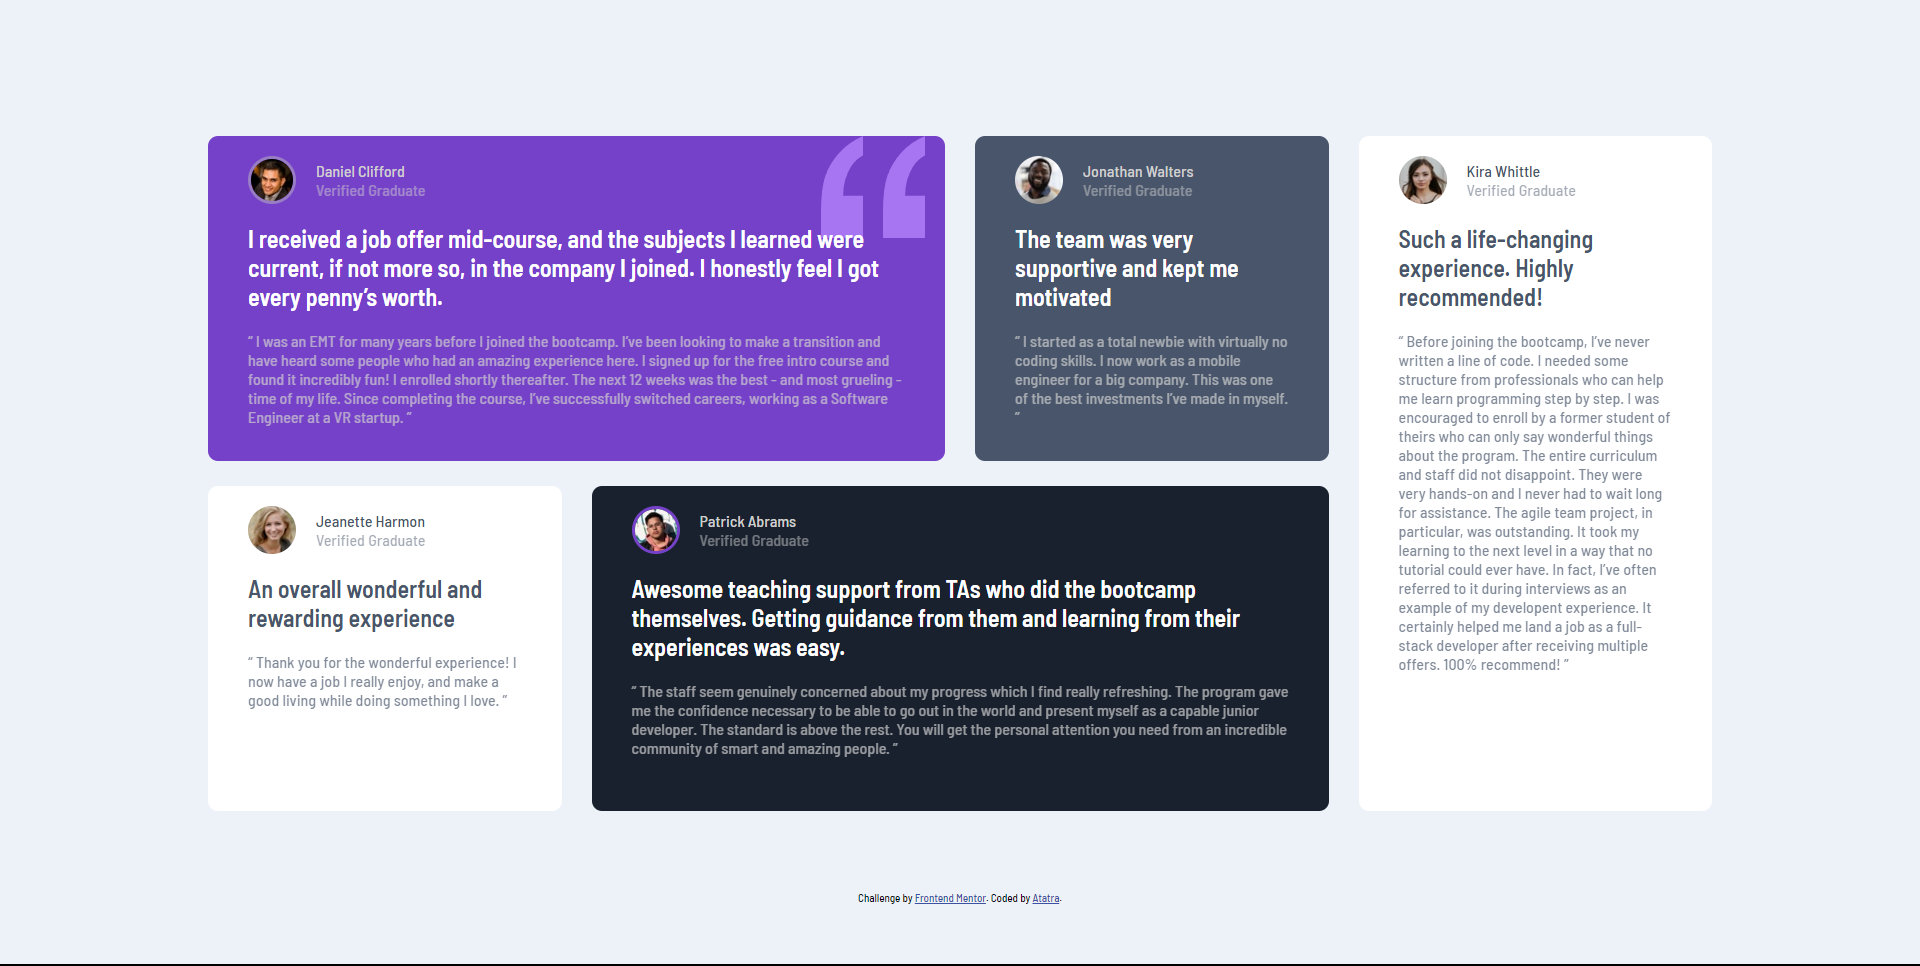
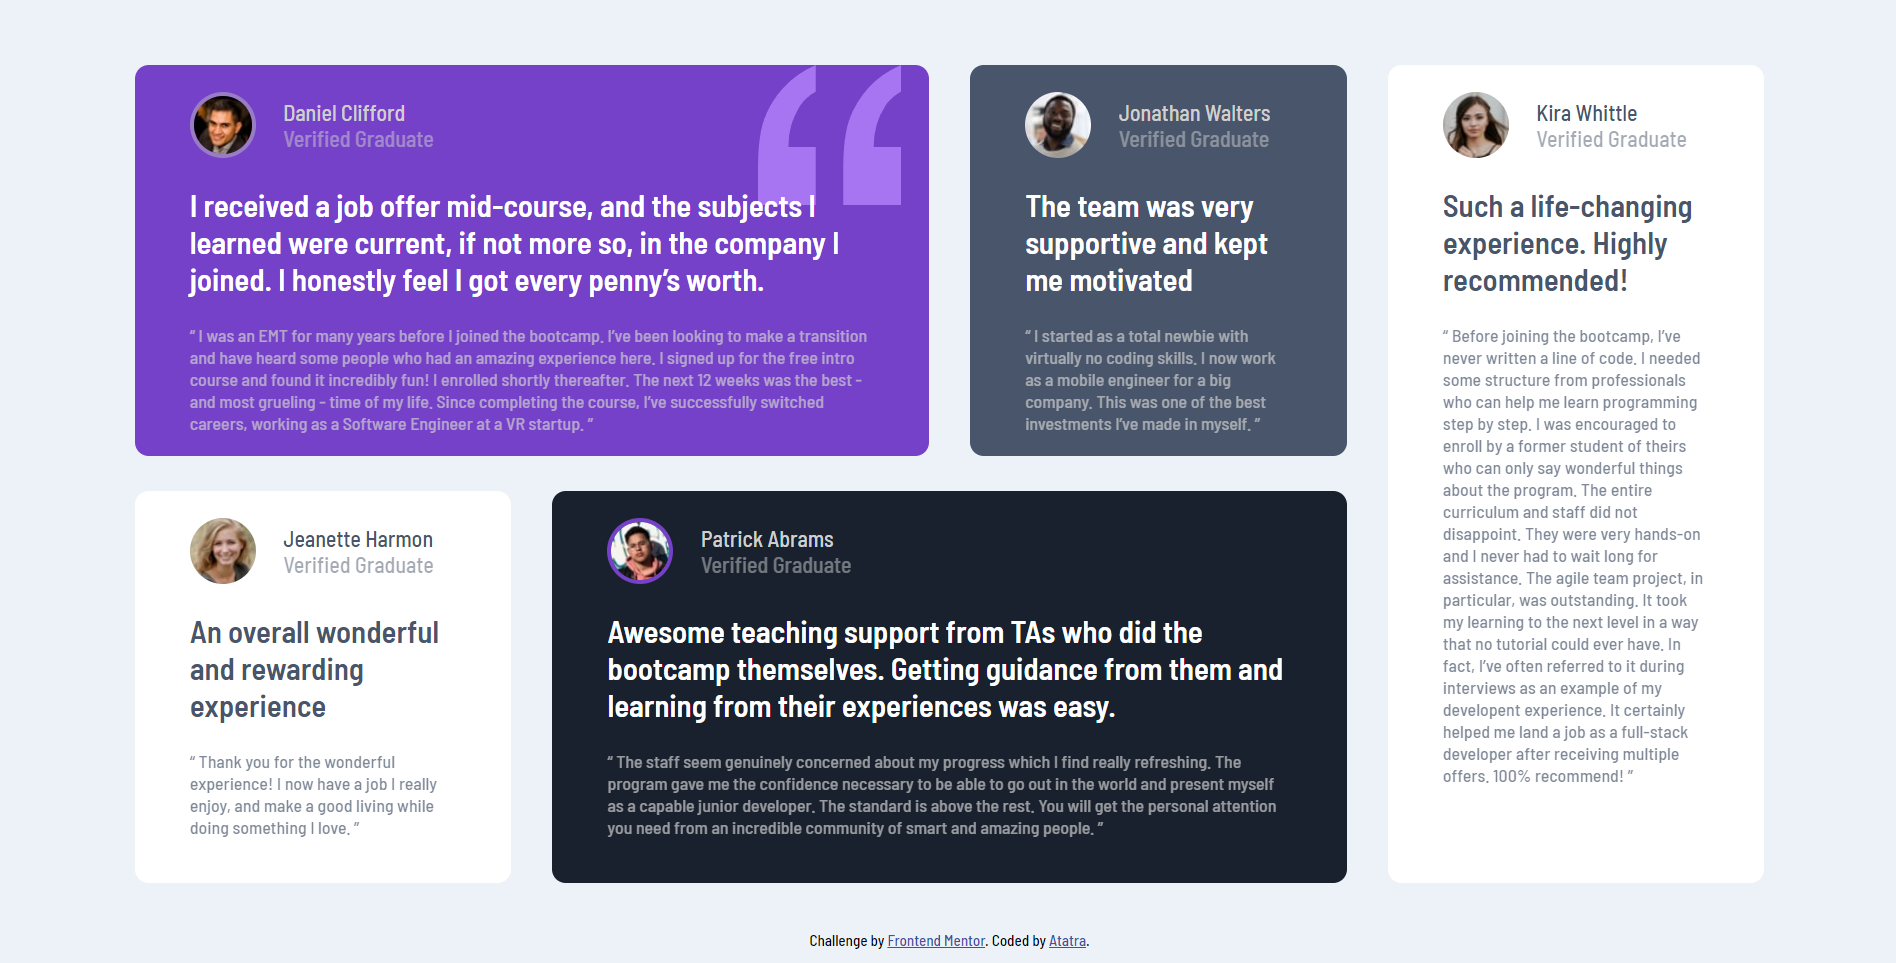
Fit grid in body

Changed region(s): [[0.0622, 0.0623, 0.9024, 0.9346], [0.0, 0.9657, 1.0, 1.0], [0.0934, 0.7788, 0.2489, 0.8723]]

diff --git a/global.css b/global.css
@@ -34,14 +34,14 @@ main.grid {
 
 @media screen and (min-width: 70em) {
   footer {
-    margin-bottom: 40px;
+    margin-bottom: 15px;
   }
   main.grid {
     display: grid;
     grid-template-columns: repeat(4, 1fr);
-    grid-template-rows: repeat(2, 1fr);
-    margin-top: 120px;
-    margin-bottom: 80px;
+    grid-template-rows: repeat(2, 285px);
+    margin-top: 60px;
+    margin-bottom: 35px;
     margin-left: 90px;
     margin-right: 90px;
   }
@@ -71,9 +71,14 @@ main.grid {
   gap: 20px;
 }
 
+.grid > article > h1 {
+  font-size: 1.4rem;
+}
+
 .grid > article > p {
   color: inherit;
   opacity: 70%;
+  font-size: 0.813rem;
 }
 
 img {
